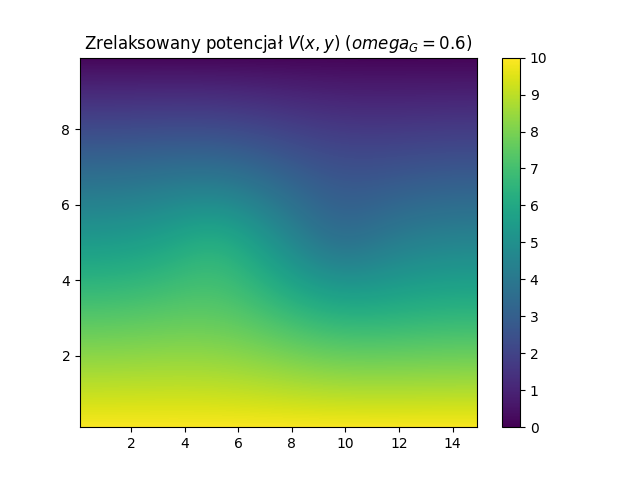
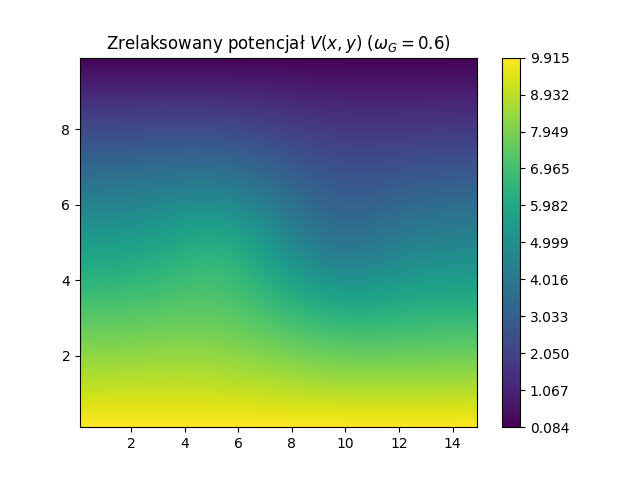
Improved Lab 4

diff --git a/Lab4/plots/plot.py b/Lab4/plots/plot.py
@@ -9,15 +9,15 @@ plt.figure()
 gs06 = np.loadtxt('gs_0.6.txt')
 gs1 = np.loadtxt('gs_1.txt')
 
-plt.plot(gs06[:, 0], gs06[:, 1], label='$omega_G = 0.6$')
-plt.plot(gs1[:, 0], gs1[:, 1], label='$omega_G = 1.0$')
+plt.plot(gs06[:, 0], gs06[:, 1], label='$\omega_G = 0.6$')
+plt.plot(gs1[:, 0], gs1[:, 1], label='$\omega_G = 1.0$')
 
 plt.xscale('log')
 plt.legend()
 plt.grid()
 plt.xlabel('it')
 plt.ylabel('S(it)')
-plt.title('Zmiana całki S (relaksacja globalna)')
+plt.title('Zmiana całki S(it) (relaksacja globalna)')
 
 plt.savefig("gs.png")
 
@@ -31,72 +31,46 @@ ls14 = np.loadtxt('ls_1.4.txt')
 lsl8 = np.loadtxt('ls_1.8.txt')
 lsl9 = np.loadtxt('ls_1.9.txt')
 
-plt.plot(lsl[:, 0], lsl[:, 1], label='$omega_L = 1.0$')
-plt.plot(ls14[:, 0], ls14[:, 1], label='$omega_L = 1.4$')
-plt.plot(lsl8[:, 0], lsl8[:, 1], label='$omega_L = 1.8$')
-plt.plot(lsl9[:, 0], lsl9[:, 1], label='$omega_L = 1.9$')
+plt.plot(lsl[:, 0], lsl[:, 1], label='$\omega_L = 1.0$')
+plt.plot(ls14[:, 0], ls14[:, 1], label='$\omega_L = 1.4$')
+plt.plot(lsl8[:, 0], lsl8[:, 1], label='$\omega_L = 1.8$')
+plt.plot(lsl9[:, 0], lsl9[:, 1], label='$\omega_L = 1.9$')
 
 plt.xscale('log')
 plt.legend()
 plt.grid()
 plt.xlabel('it')
 plt.ylabel('S(it)')
-plt.title('Zmiana całki $S$ (relaksacja lokalna)')
+plt.title('Zmiana całki $S(it)$ (relaksacja lokalna)')
 
 plt.savefig("ls.png")
 
-# Vn 0.6
-print('Plotting Vn 0.6')
+for v in [0.6, 1]:
+	# Vn
+	print('Plotting Vn ' + str(v))
 
-plt.figure()
+	plt.figure()
 
-vn06 = np.loadtxt('vn_0.6.txt')
+	vn = np.loadtxt('vn_' + str(v) + '.txt')
 
-plt.tricontourf(vn06[:, 0], vn06[:, 1], vn06[:, 2], levels=np.linspace(0, 10, 999))
-c = plt.colorbar(ticks=np.linspace(0, 10, 11))
+	plt.tricontourf(vn[:, 0], vn[:, 1], vn[:, 2], levels=np.linspace(min(vn[:, 2]), max(vn[:, 2]), 999))
+	plt.colorbar(ticks=np.linspace(min(vn[:, 2]), max(vn[:, 2]), 11))
 
-plt.title('Zrelaksowany potencjał $V(x,y)$ ($omega_G = 0.6$)')
+	plt.title('Zrelaksowany potencjał $V(x,y)$ ($\omega_G = ' + str(v) + '$)')
 
-plt.savefig("vn_0.6.png")
+	plt.savefig('vn_' + str(v) + '.png')
 
-# Vn 1
-print('Plotting Vn 1')
+	# Err
 
-plt.figure()
+	print('Plotting Err ' + str(v))
 
-vn1 = np.loadtxt('vn_1.txt')
+	plt.figure()
 
-plt.tricontourf(vn1[:, 0], vn1[:, 1], vn1[:, 2], levels=np.linspace(0, 10, 999))
-c = plt.colorbar(ticks=np.linspace(0, 10, 11))
+	err = np.loadtxt('err_' + str(v) + '.txt')
 
-plt.title('Zrelaksowany potencjał $V(x,y)$ ($omega_G = 1.0$)')
+	plt.tricontourf(err[:, 0], err[:, 1], err[:, 2], levels=np.linspace(min(err[:, 2]), max(err[:, 2]), 999))
+	plt.colorbar(ticks=np.linspace(min(err[:, 2]), max(err[:, 2]), 11))
 
-plt.savefig("vn_1.png")
+	plt.title('Błąd relaksacji ($\omega_G = ' + str(v) + '$)')
 
-# Err 0.6
-print('Plotting Err 0.6')
-
-plt.figure()
-
-err06 = np.loadtxt('err_0.6.txt')
-
-plt.tricontourf(err06[:, 0], err06[:, 1], err06[:, 2], levels=np.linspace(0, 0.00275, 999))
-c = plt.colorbar(ticks=np.linspace(0, 0.00275, 11))
-
-plt.title('Błąd relaksacji ($omega_G = 0.6$)')
-
-plt.savefig("err_0.6.png")
-
-# Err 1
-print('Plotting Err 1')
-
-plt.figure()
-
-err1 = np.loadtxt('err_1.txt')
-
-plt.tricontourf(err1[:, 0], err1[:, 1], err1[:, 2], levels=np.linspace(0, 0.00275, 999))
-c = plt.colorbar(ticks=np.linspace(0, 0.00275, 11))
-
-plt.title('Błąd relaksacji ($omega_G = 1.0$)')
-
-plt.savefig("err_1.png")
+	plt.savefig('err_' + str(v) + '.png')

diff --git a/Lab4/src/main.rs b/Lab4/src/main.rs
@@ -13,7 +13,7 @@ const SIGMA_Y: f64 = 0.1 * Y_MAX;
 const TOL: f64 = 1e-8;
 
 fn main() {
-    fs::create_dir_all("plots").expect("Unable to create folder!");
+    fs::create_dir_all("/plots").expect("Unable to create folder!");
 
     let mut ro: [[f64; NY + 1]; NX + 1] = [[0.0; NY + 1]; NX + 1];
     for i in 0..=NX {
